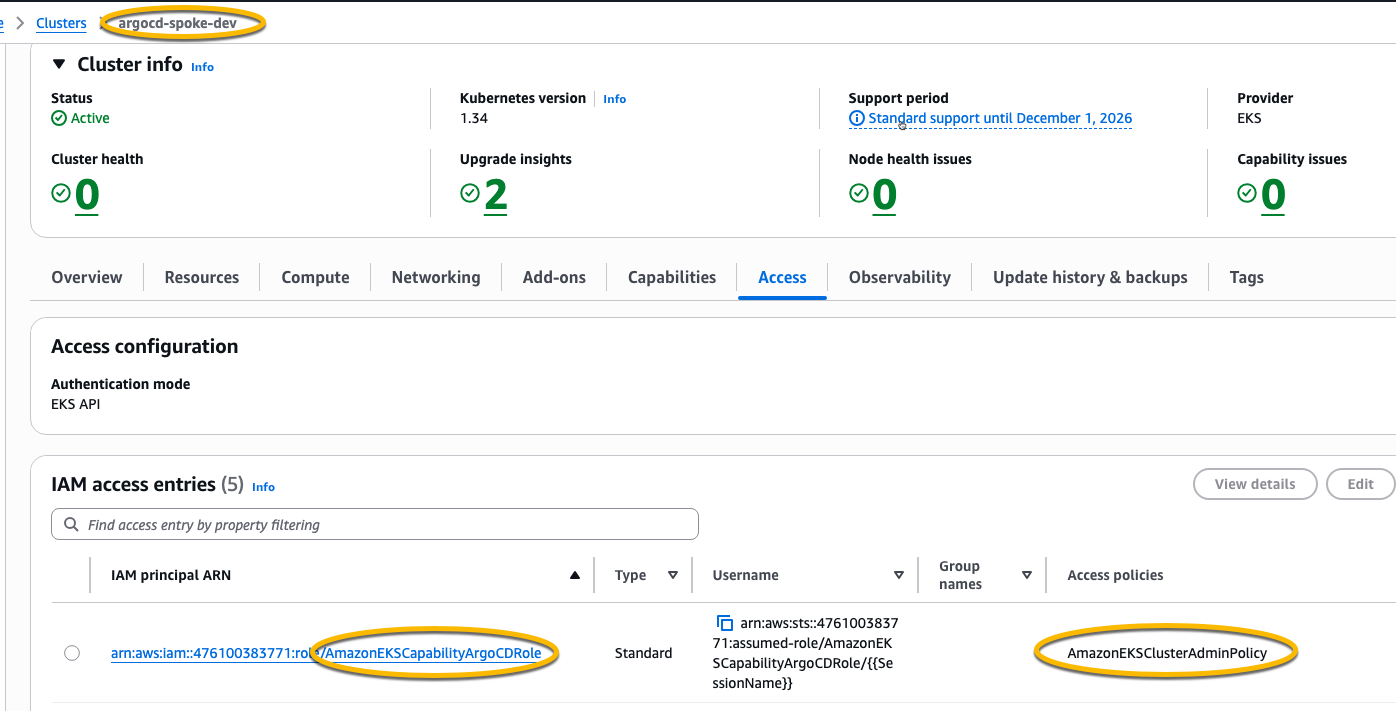
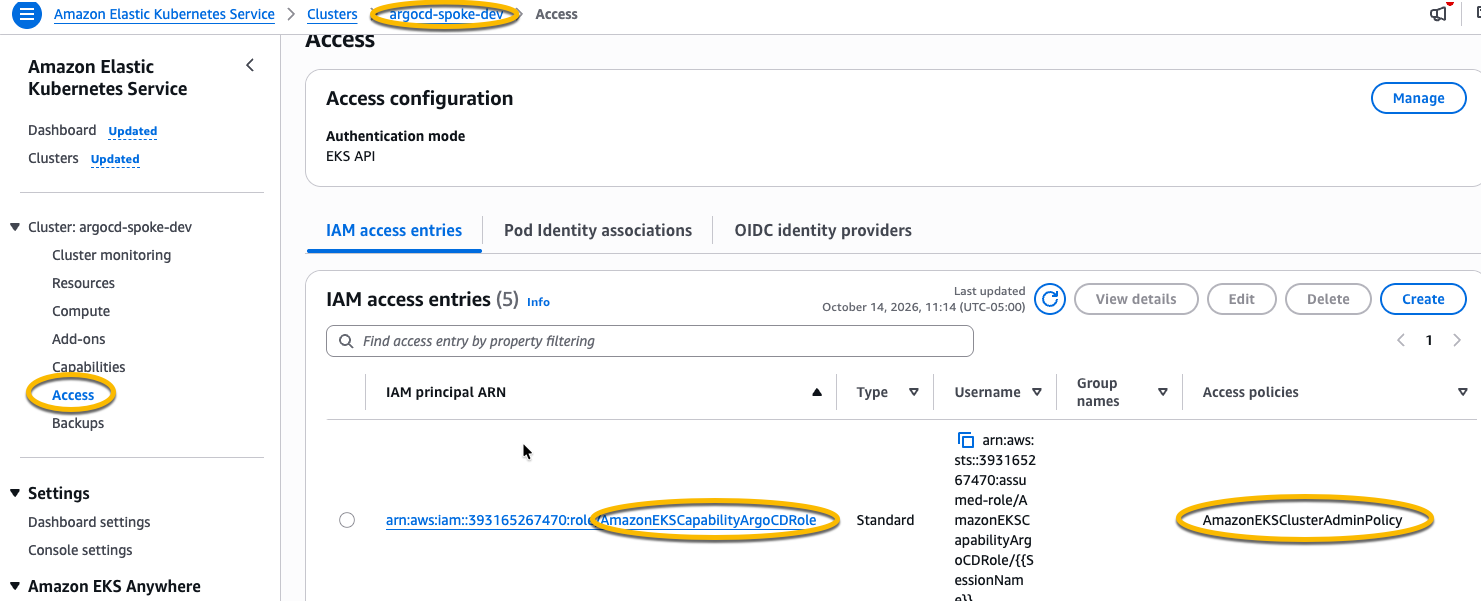
docs: update ArgoCD authentication steps for new console layout

diff --git a/content/035_argocd_authentication/020-role-based-access.md b/content/035_argocd_authentication/020-role-based-access.md
@@ -32,7 +32,11 @@ We will cover this in upcoming chapter
 
 We have assigned ArgocdAdmins group to built in "Admins" group. This makes argoadmin superuser.
 
-To view Navigate to EKS>Clusters>argocd-hub>Capabilities>Argo CD on AWS Console
+To view Navigate to EKS>Clusters>argocd-hub>Capabilities on AWS Console and select Argo CD
+
+![argoadmin role select ](/static/images/argocd-authentication/argocdadmins-role-select.png)
+
+Scroll down to Role assignment
 
 ![argoadmin role ](/static/images/argocd-authentication/argocdadmins-role.png)
 

diff --git a/content/035_argocd_authentication/010-user-management.md b/content/035_argocd_authentication/010-user-management.md
@@ -26,7 +26,7 @@ Steps to Disable MFA
 1. Navigate to Identity Center Console
 
    - Open AWS Console
-   - Search for "Identity Center"
+   - Search for "IAM Identity Center"
 
 2. Select Configure MFA
 
